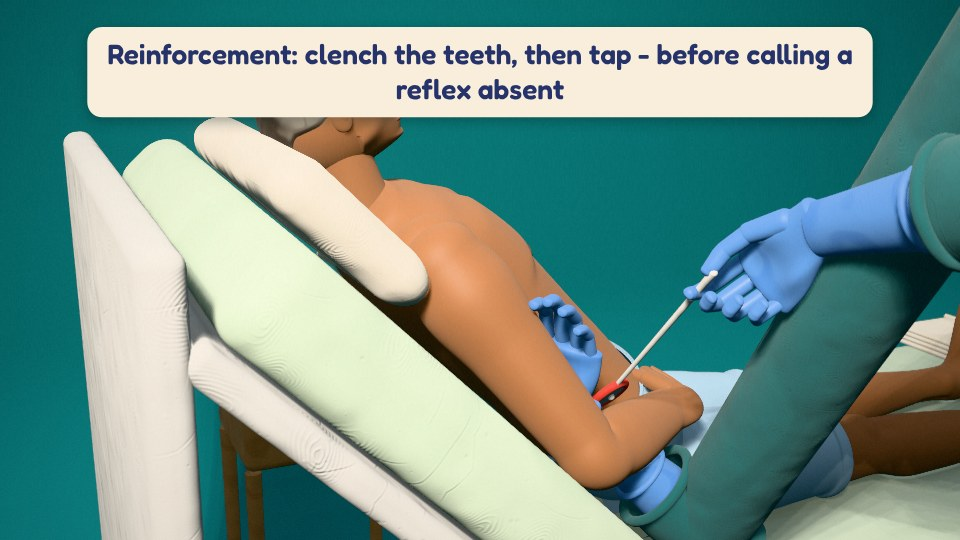
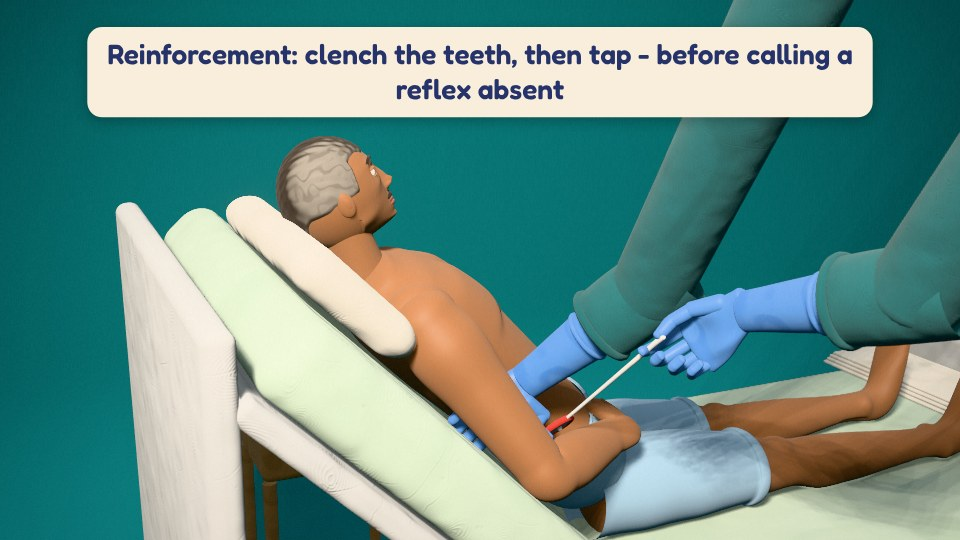
Reinforcement camera: face and jaw below the caption; re-rendered panels
Claude-Session: https://claude.ai/code/session_018C3XZZwWfCkMA58rbqUkQr

diff --git a/src/cns7-style.js b/src/cns7-style.js
@@ -1137,6 +1137,10 @@
           CAMS['bic' + sd] = { pos: tb.clone().addScaledVector(d, sd === 'R' ? 10 : 6.6).toArray(), target: tb.toArray(), focus: tb.toArray(), aperture: 0.02, fov: sd === 'R' ? 28 : 40 };
         }
       }
+      {   // reinforcement: aimed a little higher and further back, so his face and jaw sit below the caption with the elbow, thumb and hammer still in frame
+        const c = SOL.cams.reinf, t0 = V(...(c.target.isVector3 ? c.target.toArray() : c.target)), p0 = V(...(c.pos.isVector3 ? c.pos.toArray() : c.pos)), d = p0.clone().sub(t0).normalize(), t1 = t0.clone().add(V(0.4, 0.9, 0));
+        CAMS.reinf = { pos: t1.clone().addScaledVector(d, 17.5).toArray(), target: t1.toArray(), focus: t0.toArray(), aperture: 0.03, fov: 28 };
+      }
       const camVec = (c) => [...c.pos, ...c.target, ...(Array.isArray(c.focus) ? c.focus : c.target), c.fov || 28, c.aperture == null ? 0.02 : c.aperture];
       const camAt = (t) => CH.cam(t, (n) => camVec(CAMS[n]), (a, b, u) => a.map((v, i) => K.lerp(v, b[i], u)));
       const shoot = (v) => { K.look(S.camera, v.slice(0, 3), v.slice(3, 6), v[9]); K.focus(S.camera, v.slice(6, 9), v[10]); };
